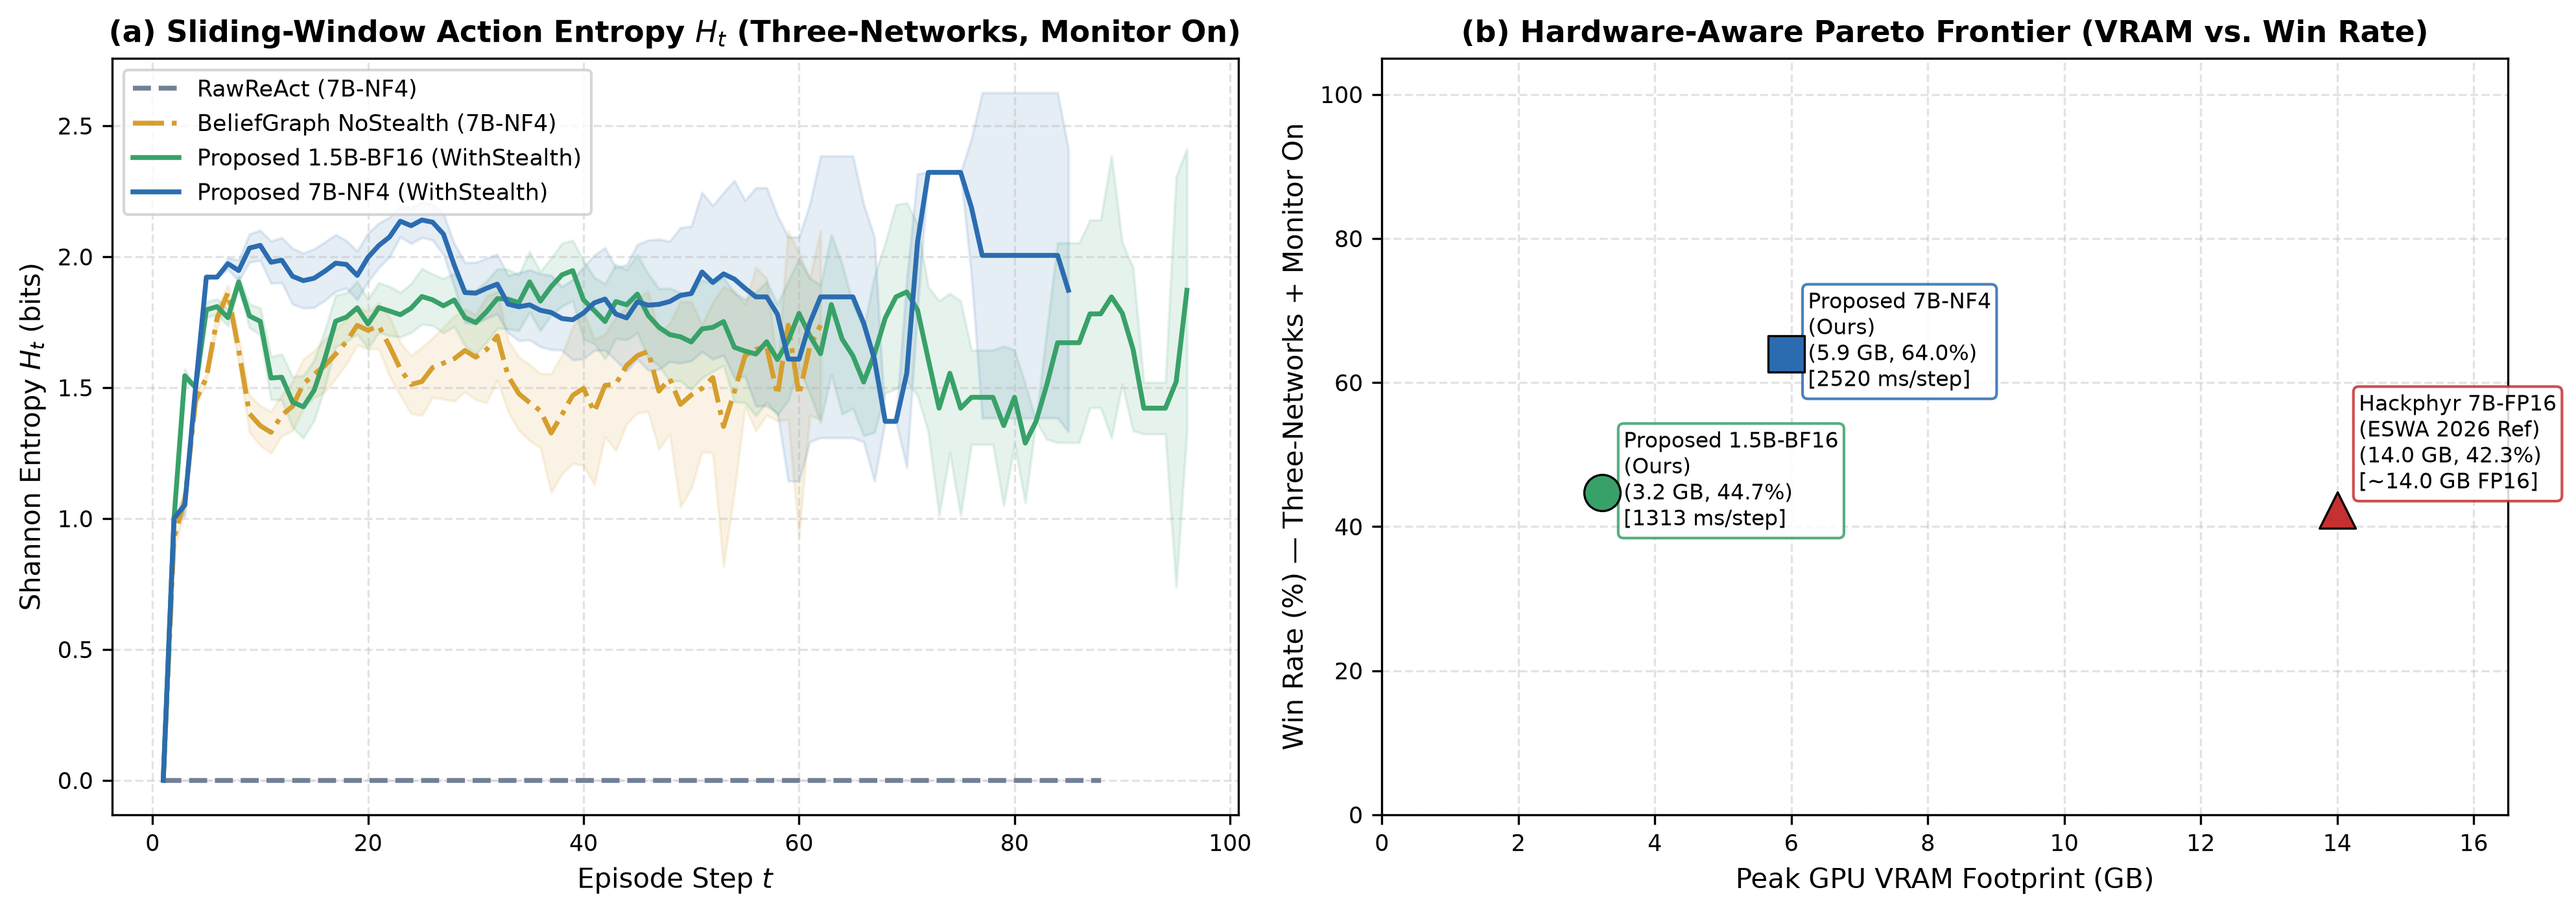
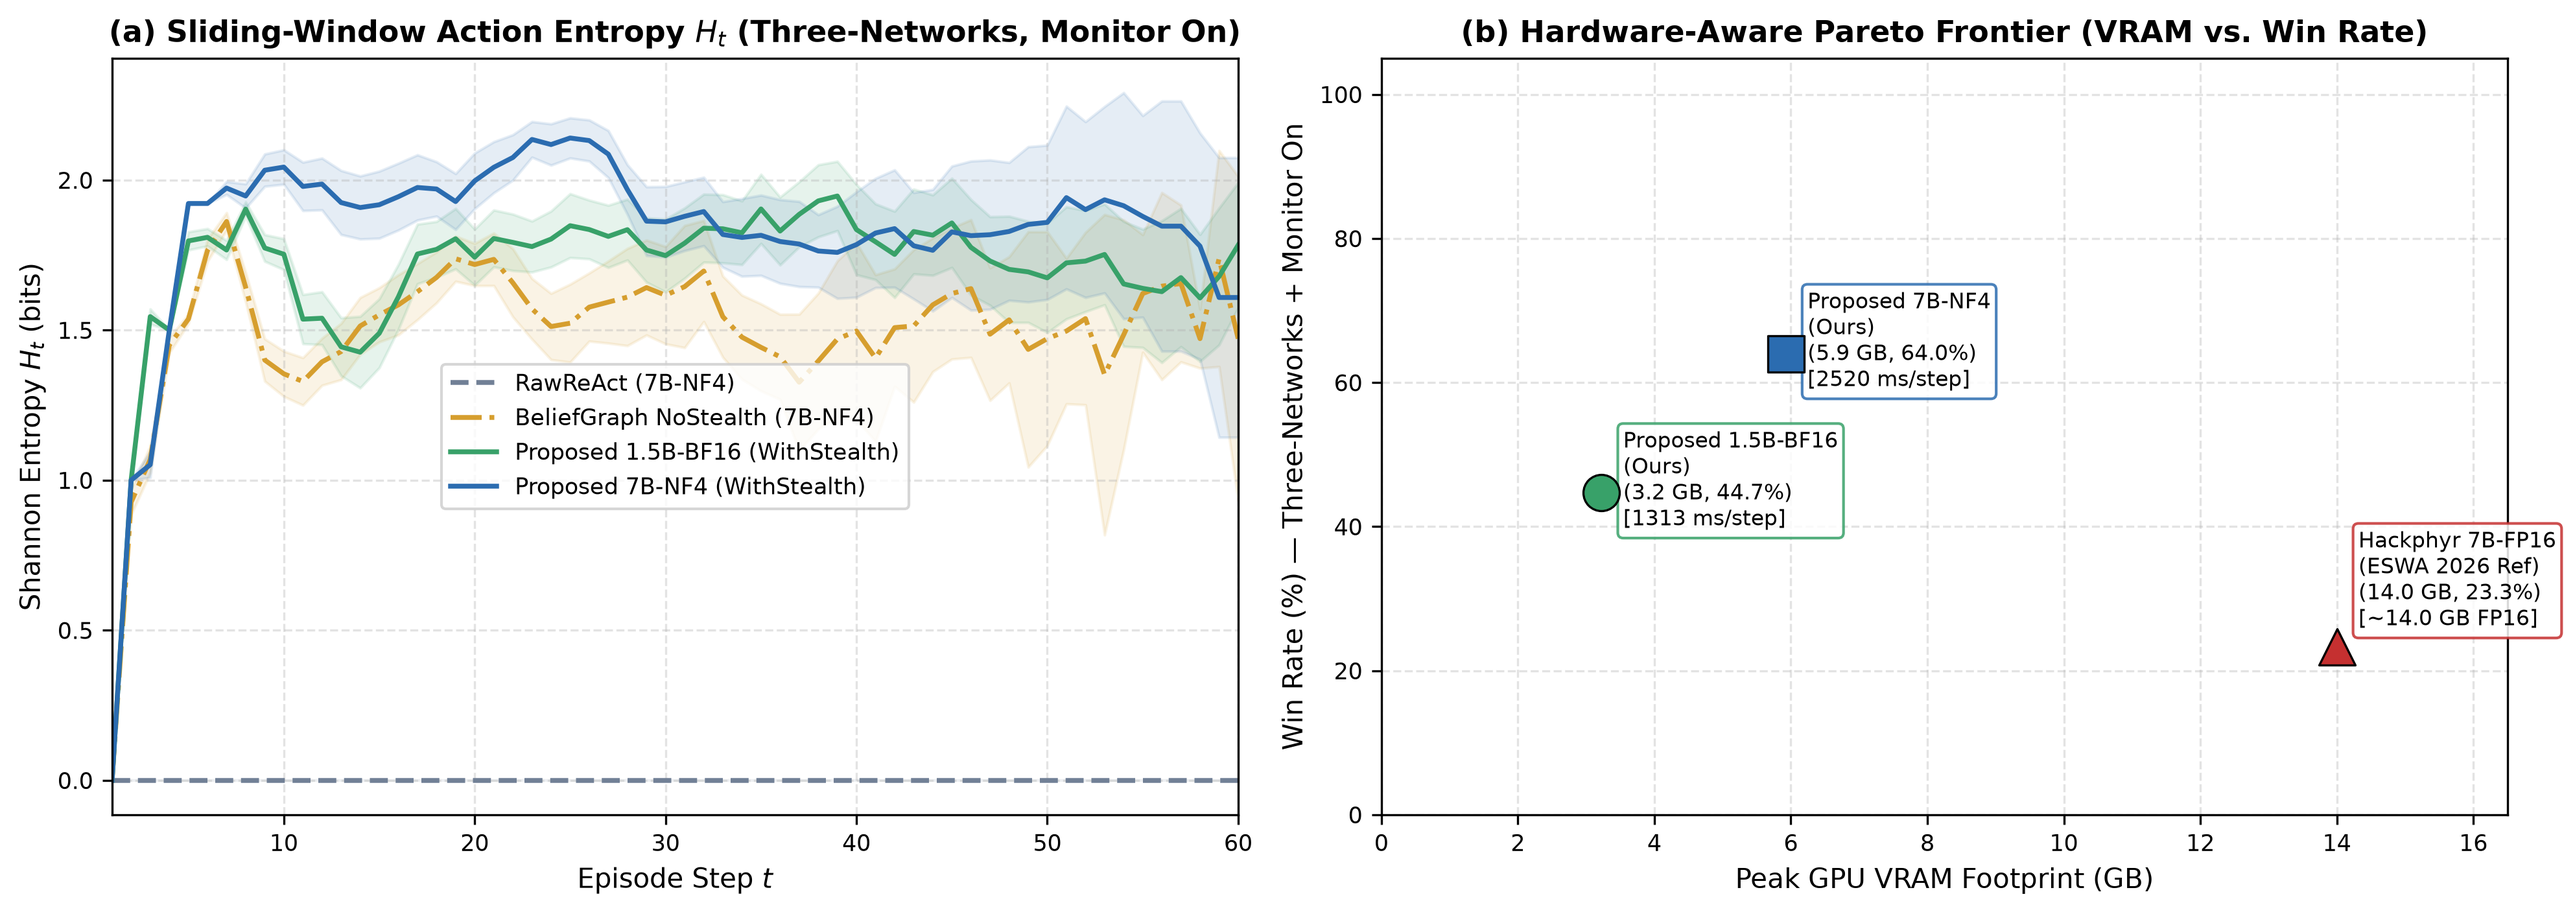
polish: cap fig3 entropy x-axis at t<=60 and update Hackphyr ESWA 2026 Table 5 reference to 23.3%

diff --git a/research_extension/generate_paper_figures.py b/research_extension/generate_paper_figures.py
@@ -195,9 +195,9 @@ def plot_fig3_entropy_and_pareto(suite_root: Path, out_dir: Path) -> None:
         traj = r2b_ent.get(key, {}).get("entropy_trajectory", [])
         if not traj:
             continue
-        steps = [pt["step"] for pt in traj if pt["n"] >= 3]
-        means = [pt["mean_entropy"] for pt in traj if pt["n"] >= 3]
-        cis = [pt["ci95_entropy"] for pt in traj if pt["n"] >= 3]
+        steps = [pt["step"] for pt in traj if pt["n"] >= 3 and pt["step"] <= 60]
+        means = [pt["mean_entropy"] for pt in traj if pt["n"] >= 3 and pt["step"] <= 60]
+        cis = [pt["ci95_entropy"] for pt in traj if pt["n"] >= 3 and pt["step"] <= 60]
         if not steps:
             continue
         ax1.plot(steps, means, label=label, color=color, linestyle=ls, linewidth=1.8)
@@ -208,6 +208,7 @@ def plot_fig3_entropy_and_pareto(suite_root: Path, out_dir: Path) -> None:
     ax1.set_title("(a) Sliding-Window Action Entropy $H_t$ (Three-Networks, Monitor On)", fontweight="bold")
     ax1.set_xlabel("Episode Step $t$")
     ax1.set_ylabel("Shannon Entropy $H_t$ (bits)")
+    ax1.set_xlim(1, 60)
     ax1.grid(True, linestyle="--", alpha=0.35)
     ax1.legend(loc="best")
 
@@ -224,11 +225,11 @@ def plot_fig3_entropy_and_pareto(suite_root: Path, out_dir: Path) -> None:
     lat_7b = float(s7b.get("avg_latency_ms_per_step", 0.0))
     win_7b = float(s7b.get("win_rate_percent", 0.0))
 
-    # Published reference point from Rigaki et al. (ESWA 2026) Table 5: Hackphyr-7B FP16 (14 GB VRAM, 42.3% Three-Nets Defender win rate)
+    # Published reference point from Rigaki et al. (ESWA 2026) Table 5: Hackphyr-7B FP16 (14 GB VRAM, 23.3% Three-Nets Defender win rate)
     points = [
         ("Proposed 1.5B-BF16\n(Ours)", vram_15, win_15, f"{lat_15:.0f} ms/step", "#38a169", "o"),
         ("Proposed 7B-NF4\n(Ours)", vram_7b, win_7b, f"{lat_7b:.0f} ms/step", "#2b6cb0", "s"),
-        ("Hackphyr 7B-FP16\n(ESWA 2026 Ref)", 14.0, 42.3, "~14.0 GB FP16", "#c53030", "^"),
+        ("Hackphyr 7B-FP16\n(ESWA 2026 Ref)", 14.0, 23.3, "~14.0 GB FP16", "#c53030", "^"),
     ]
     for lbl, vx, wy, note, col, marker in points:
         ax2.scatter([vx], [wy], s=180, color=col, marker=marker, zorder=5, edgecolors="black", linewidth=0.8)

diff --git a/EXPERIMENT_RESULTS.md b/EXPERIMENT_RESULTS.md
@@ -102,11 +102,11 @@ Exact two-sided **McNemar's tests** (win rate), **Wilcoxon signed-rank tests**, 
 | :--- | :---: | :---: | :---: | :---: | :---: |
 | Random Baseline (ESWA 2026 / Ours) | CPU | ~4.7% (`4.65%` ours) | ~0.3% (`0.25%` ours) | ~3.3% (`3.30%` ours) | ~0.3% (`0.30%` ours) |
 | Untuned Zephyr-7B-Beta (ESWA 2026 Ref) | ~14 GB FP16 | 23.65% | — | — | — |
-| Fine-Tuned Hackphyr-7B (ESWA 2026 Ref) | ~14 GB FP16 | ~96.0% | ~73.0% | ~87.0% | 42.3% |
+| Fine-Tuned Hackphyr-7B (ESWA 2026 Ref) | ~14 GB FP16 | ~96.0% | ~73.0% | ~87.0% | 23.3% |
 | **Proposed 1.5B-BF16 (Zero-Shot, Ours)** | **3.24 GB** | **98.67%** | **51.33%** | **93.33%** | **44.67%** |
 | **Proposed 7B-NF4 (Zero-Shot, Ours)** | **5.95 GB** | **99.33%** | **71.33%** | **93.33%** | **64.00%** |
 
-Without any task-specific fine-tuning or hardcoded domain knowledge, our zero-shot **7B-NF4 BeliefGraph + Minimax Utility** planner achieves **+21.7 percentage points higher win rate** (`64.00%` vs. `42.3%`) than fine-tuned Hackphyr-7B on the hardest multi-hop `Three-Networks + Monitor On` regime while using **< 43% of the VRAM** (`5.95 GB` vs. `14 GB`).
+Without any task-specific fine-tuning or hardcoded domain knowledge, our zero-shot **7B-NF4 BeliefGraph + Minimax Utility** planner achieves **+40.7 percentage points higher win rate** (`64.00%` vs. `23.3%`) than fine-tuned Hackphyr-7B on the hardest multi-hop `Three-Networks + Monitor On` regime while using **< 43% of the VRAM** (`5.95 GB` vs. `14 GB`).
 
 ---
 
